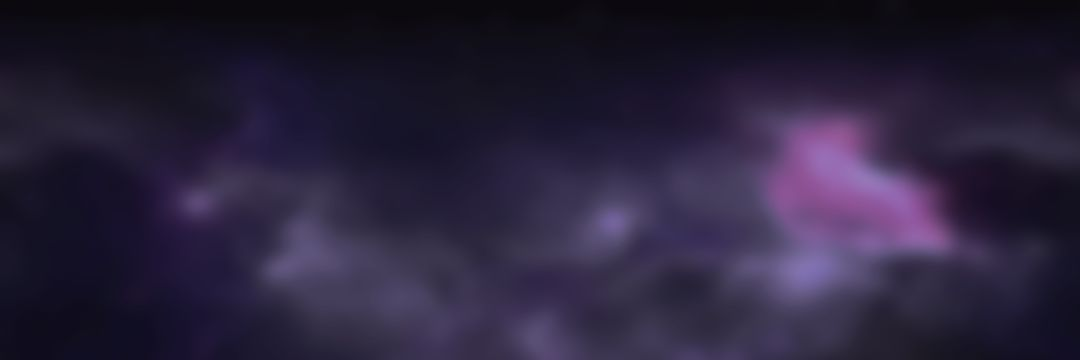
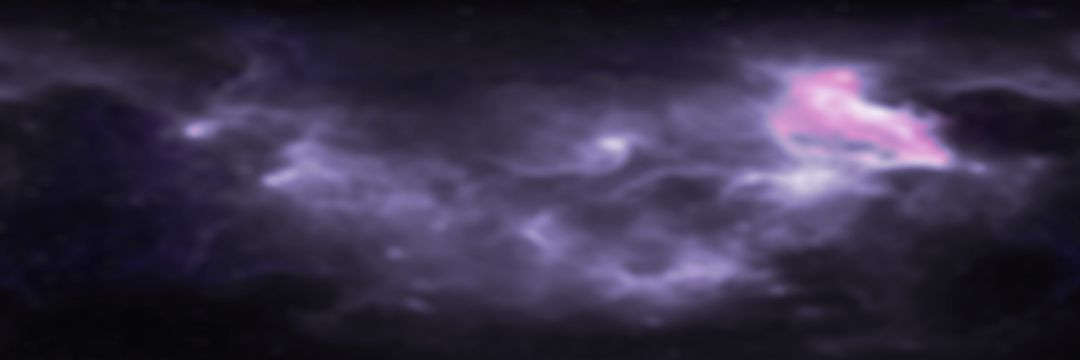
feat: meta tags

diff --git a/index.html b/index.html
@@ -3,7 +3,24 @@
 	<head>
 		<meta charset="UTF-8" />
 		<meta name="viewport" content="width=device-width, initial-scale=1.0" />
+
+		<!-- HTML Meta Tags -->
 		<title>Spatial</title>
+		<meta name="description" content="Rethinking Video Editing." />
+		<meta name="theme-color" content="#8779B2" />
+		<link rel="icon" href="/static/images/logo.png" />
+
+		<!-- Open Graph Meta Tags -->
+		<meta property="og:type" content="website" />
+		<meta property="og:title" content="Spatial" />
+		<meta property="og:description" content="Rethinking Video Editing." />
+		<meta property="og:image" content="/static/images/embed.jpg" />
+
+		<!-- Twitter Meta Tags -->
+		<meta name="twitter:card" content="summary_large_image" />
+		<meta name="twitter:description" content="Rethinking Video Editing." />
+		<meta name="twitter:image" content="/static/images/embed.jpg" />
+
 		<link rel="stylesheet" href="/assets/css/main.scss" />
 		<link rel="stylesheet" href="https://fonts.cdnfonts.com/css/whitney-2" />
 		<link href="https://fonts.cdnfonts.com/css/futura-maxi-cg-bold" rel="stylesheet" />

diff --git a/routes/index.vue b/routes/index.vue
@@ -12,7 +12,7 @@
 				</div>
 
 				<div class="btn-row">
-					<router-link to="/spatial/register" class="btn btn-primary btn-hero mt-5">
+					<router-link to="/spatial/login" class="btn btn-primary btn-hero mt-5">
 						Get Started
 						<mdicon name="chevron-right" />
 					</router-link>
